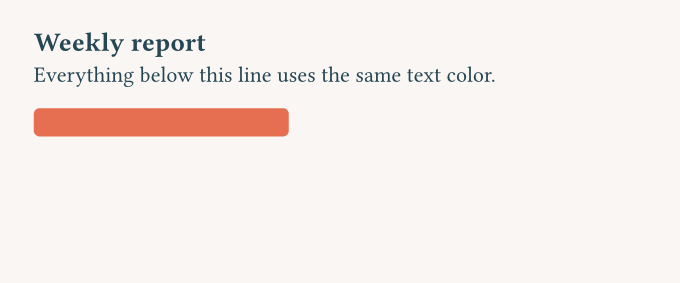
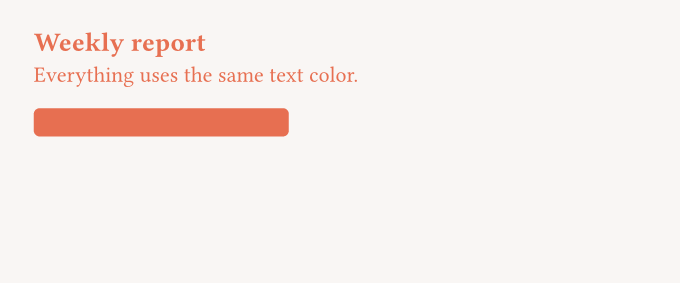
deploy: f40ca30443255fd2d4fcd120b3a94e809c6a17b5

Changed region(s): [[0.0309, 0.2261, 0.7412, 0.311], [0.0309, 0.1131, 0.3088, 0.1979]]

diff --git a/crash-course/index.html b/crash-course/index.html
@@ -592,6 +592,17 @@
   
 </li>
       
+        <li class="md-nav__item">
+  <a href="#next-step" class="md-nav__link">
+    <span class="md-ellipsis">
+      
+        Next step
+      
+    </span>
+  </a>
+  
+</li>
+      
     </ul>
   
 </nav>
@@ -1012,6 +1023,17 @@
   
 </li>
       
+        <li class="md-nav__item">
+  <a href="#next-step" class="md-nav__link">
+    <span class="md-ellipsis">
+      
+        Next step
+      
+    </span>
+  </a>
+  
+</li>
+      
     </ul>
   
 </nav>
@@ -1181,8 +1203,7 @@
 </div>
 </div>
 <p>Those are just common examples, but in practice you'll quickly find this intuitive as you start using Typst. A great way to make this simpler to you is to make you have <ins>syntax highlighting</ins> in your editor. If you have a second look <a href="#when-or-when-not-to-use-the--symbol">here</a>, you'll see that in the second case the text is all black, meaning that it will be rendered as is.</p>
-<p><br></p>
-<p><br></p>
+<p><br><br></p>
 <h2 id="exercises">Exercises<a class="headerlink" href="#exercises" title="Permanent link">&para;</a></h2>
 <div class="admonition note">
 <p class="admonition-title">Note</p>
@@ -1195,7 +1216,7 @@
 </li>
 </ul>
 </div>
-<h3 id="1-basics">1 - Basics<a class="headerlink" href="#1-basics" title="Permanent link">&para;</a></h3>
+<h4 id="1-basics">1 - Basics<a class="headerlink" href="#1-basics" title="Permanent link">&para;</a></h4>
 <p>Reproduce the PDF below:</p>
 <div class="tabbed-set tabbed-alternate" data-tabs="3:3"><input checked="checked" id="__tabbed_3_1" name="__tabbed_3" type="radio" /><input id="__tabbed_3_2" name="__tabbed_3" type="radio" /><input id="__tabbed_3_3" name="__tabbed_3" type="radio" /><div class="tabbed-labels"><label for="__tabbed_3_1">Exercise</label><label for="__tabbed_3_2">Hint</label><label for="__tabbed_3_3">Solution</label></div>
 <div class="tabbed-content">
@@ -1218,7 +1239,7 @@
 </div>
 </div>
 </div>
-<h3 id="2-a-first-shape">2 - A first shape<a class="headerlink" href="#2-a-first-shape" title="Permanent link">&para;</a></h3>
+<h4 id="2-a-first-shape">2 - A first shape<a class="headerlink" href="#2-a-first-shape" title="Permanent link">&para;</a></h4>
 <p>Reproduce the PDF below:</p>
 <div class="tabbed-set tabbed-alternate" data-tabs="4:3"><input checked="checked" id="__tabbed_4_1" name="__tabbed_4" type="radio" /><input id="__tabbed_4_2" name="__tabbed_4" type="radio" /><input id="__tabbed_4_3" name="__tabbed_4" type="radio" /><div class="tabbed-labels"><label for="__tabbed_4_1">Exercise</label><label for="__tabbed_4_2">Hint</label><label for="__tabbed_4_3">Solution</label></div>
 <div class="tabbed-content">
@@ -1239,7 +1260,7 @@
 </div>
 </div>
 </div>
-<h3 id="3-layout-with-stack">3 - Layout with <code>stack</code><a class="headerlink" href="#3-layout-with-stack" title="Permanent link">&para;</a></h3>
+<h4 id="3-layout-with-stack">3 - Layout with <code>stack</code><a class="headerlink" href="#3-layout-with-stack" title="Permanent link">&para;</a></h4>
 <p>Reproduce the PDF below:</p>
 <div class="tabbed-set tabbed-alternate" data-tabs="5:3"><input checked="checked" id="__tabbed_5_1" name="__tabbed_5" type="radio" /><input id="__tabbed_5_2" name="__tabbed_5" type="radio" /><input id="__tabbed_5_3" name="__tabbed_5" type="radio" /><div class="tabbed-labels"><label for="__tabbed_5_1">Exercise</label><label for="__tabbed_5_2">Hint</label><label for="__tabbed_5_3">Solution</label></div>
 <div class="tabbed-content">
@@ -1268,7 +1289,7 @@
 </div>
 </div>
 </div>
-<h3 id="4-variables-and-set-rules">4 - Variables and set rules<a class="headerlink" href="#4-variables-and-set-rules" title="Permanent link">&para;</a></h3>
+<h4 id="4-variables-and-set-rules">4 - Variables and set rules<a class="headerlink" href="#4-variables-and-set-rules" title="Permanent link">&para;</a></h4>
 <p>Reproduce the PDF below:</p>
 <div class="tabbed-set tabbed-alternate" data-tabs="6:3"><input checked="checked" id="__tabbed_6_1" name="__tabbed_6" type="radio" /><input id="__tabbed_6_2" name="__tabbed_6" type="radio" /><input id="__tabbed_6_3" name="__tabbed_6" type="radio" /><div class="tabbed-labels"><label for="__tabbed_6_1">Exercise</label><label for="__tabbed_6_2">Hint</label><label for="__tabbed_6_3">Solution</label></div>
 <div class="tabbed-content">
@@ -1277,29 +1298,26 @@
 </div>
 <div class="tabbed-block">
 <ul>
-<li>Define colors with <code>#let</code></li>
+<li>Define the main color (#e76f51) with <code>#let</code></li>
 <li>Use <code>#set text(...)</code> to style all text at once</li>
-<li>Add a heading, a paragraph, and a rectangle</li>
 </ul>
 </div>
 <div class="tabbed-block">
-<div class="language-typst highlight"><pre><span></span><code><span id="__span-15-1"><a id="__codelineno-15-1" name="__codelineno-15-1" href="#__codelineno-15-1"></a><span class="kd">#let</span><span class="w"> </span><span class="nv">bg</span><span class="w"> </span><span class="o">=</span><span class="w"> </span><span class="nf">rgb</span><span class="p">(</span><span class="s2">&quot;#f9f6f4&quot;</span><span class="p">)</span>
-</span><span id="__span-15-2"><a id="__codelineno-15-2" name="__codelineno-15-2" href="#__codelineno-15-2"></a><span class="kd">#let</span><span class="w"> </span><span class="nv">brand</span><span class="w"> </span><span class="o">=</span><span class="w"> </span><span class="nf">rgb</span><span class="p">(</span><span class="s2">&quot;#264653&quot;</span><span class="p">)</span>
-</span><span id="__span-15-3"><a id="__codelineno-15-3" name="__codelineno-15-3" href="#__codelineno-15-3"></a><span class="kd">#let</span><span class="w"> </span><span class="nv">accent</span><span class="w"> </span><span class="o">=</span><span class="w"> </span><span class="nf">rgb</span><span class="p">(</span><span class="s2">&quot;#e76f51&quot;</span><span class="p">)</span>
-</span><span id="__span-15-4"><a id="__codelineno-15-4" name="__codelineno-15-4" href="#__codelineno-15-4"></a>
-</span><span id="__span-15-5"><a id="__codelineno-15-5" name="__codelineno-15-5" href="#__codelineno-15-5"></a><span class="kd">#set</span><span class="w"> </span><span class="nf">page</span><span class="p">(</span><span class="nv">fill</span><span class="p">:</span><span class="w"> </span><span class="nv">bg</span><span class="p">,</span><span class="w"> </span><span class="nv">width</span><span class="p">:</span><span class="w"> </span><span class="m">12</span><span class="kr">cm</span><span class="p">,</span><span class="w"> </span><span class="nv">height</span><span class="p">:</span><span class="w"> </span><span class="m">5</span><span class="kr">cm</span><span class="p">)</span>
-</span><span id="__span-15-6"><a id="__codelineno-15-6" name="__codelineno-15-6" href="#__codelineno-15-6"></a><span class="kd">#set</span><span class="w"> </span><span class="nf">text</span><span class="p">(</span><span class="nv">fill</span><span class="p">:</span><span class="w"> </span><span class="nv">brand</span><span class="p">)</span>
+<div class="language-typst highlight"><pre><span></span><code><span id="__span-15-1"><a id="__codelineno-15-1" name="__codelineno-15-1" href="#__codelineno-15-1"></a><span class="kd">#let</span><span class="w"> </span><span class="nv">main-color</span><span class="w"> </span><span class="o">=</span><span class="w"> </span><span class="nf">rgb</span><span class="p">(</span><span class="s2">&quot;#e76f51&quot;</span><span class="p">)</span>
+</span><span id="__span-15-2"><a id="__codelineno-15-2" name="__codelineno-15-2" href="#__codelineno-15-2"></a>
+</span><span id="__span-15-3"><a id="__codelineno-15-3" name="__codelineno-15-3" href="#__codelineno-15-3"></a><span class="kd">#set</span><span class="w"> </span><span class="nf">page</span><span class="p">(</span><span class="nv">fill</span><span class="p">:</span><span class="w"> </span><span class="nf">rgb</span><span class="p">(</span><span class="s2">&quot;#f9f6f4&quot;</span><span class="p">),</span><span class="w"> </span><span class="nv">width</span><span class="p">:</span><span class="w"> </span><span class="m">12</span><span class="kr">cm</span><span class="p">,</span><span class="w"> </span><span class="nv">height</span><span class="p">:</span><span class="w"> </span><span class="m">5</span><span class="kr">cm</span><span class="p">)</span>
+</span><span id="__span-15-4"><a id="__codelineno-15-4" name="__codelineno-15-4" href="#__codelineno-15-4"></a><span class="kd">#set</span><span class="w"> </span><span class="nf">text</span><span class="p">(</span><span class="nv">fill</span><span class="p">:</span><span class="w"> </span><span class="nv">main-color</span><span class="p">)</span>
+</span><span id="__span-15-5"><a id="__codelineno-15-5" name="__codelineno-15-5" href="#__codelineno-15-5"></a>
+</span><span id="__span-15-6"><a id="__codelineno-15-6" name="__codelineno-15-6" href="#__codelineno-15-6"></a><span class="gh">== Weekly report</span>
 </span><span id="__span-15-7"><a id="__codelineno-15-7" name="__codelineno-15-7" href="#__codelineno-15-7"></a>
-</span><span id="__span-15-8"><a id="__codelineno-15-8" name="__codelineno-15-8" href="#__codelineno-15-8"></a><span class="gh">== Weekly report</span>
+</span><span id="__span-15-8"><a id="__codelineno-15-8" name="__codelineno-15-8" href="#__codelineno-15-8"></a>Everything<span class="w"> </span>uses<span class="w"> </span>the<span class="w"> </span>same<span class="w"> </span>text<span class="w"> </span>color.
 </span><span id="__span-15-9"><a id="__codelineno-15-9" name="__codelineno-15-9" href="#__codelineno-15-9"></a>
-</span><span id="__span-15-10"><a id="__codelineno-15-10" name="__codelineno-15-10" href="#__codelineno-15-10"></a>Everything<span class="w"> </span>below<span class="w"> </span>this<span class="w"> </span>line<span class="w"> </span>uses<span class="w"> </span>the<span class="w"> </span>same<span class="w"> </span>text<span class="w"> </span>color.
-</span><span id="__span-15-11"><a id="__codelineno-15-11" name="__codelineno-15-11" href="#__codelineno-15-11"></a>
-</span><span id="__span-15-12"><a id="__codelineno-15-12" name="__codelineno-15-12" href="#__codelineno-15-12"></a><span class="nf">#rect</span><span class="p">(</span><span class="nv">fill</span><span class="p">:</span><span class="w"> </span><span class="nv">accent</span><span class="p">,</span><span class="w"> </span><span class="nv">width</span><span class="p">:</span><span class="w"> </span><span class="m">4.5</span><span class="kr">cm</span><span class="p">,</span><span class="w"> </span><span class="nv">height</span><span class="p">:</span><span class="w"> </span><span class="m">0.5</span><span class="kr">cm</span><span class="p">,</span><span class="w"> </span><span class="nv">radius</span><span class="p">:</span><span class="w"> </span><span class="m">3</span><span class="kr">pt</span><span class="p">)</span>
+</span><span id="__span-15-10"><a id="__codelineno-15-10" name="__codelineno-15-10" href="#__codelineno-15-10"></a><span class="nf">#rect</span><span class="p">(</span><span class="nv">fill</span><span class="p">:</span><span class="w"> </span><span class="nv">main-color</span><span class="p">,</span><span class="w"> </span><span class="nv">width</span><span class="p">:</span><span class="w"> </span><span class="m">4.5</span><span class="kr">cm</span><span class="p">,</span><span class="w"> </span><span class="nv">height</span><span class="p">:</span><span class="w"> </span><span class="m">0.5</span><span class="kr">cm</span><span class="p">,</span><span class="w"> </span><span class="nv">radius</span><span class="p">:</span><span class="w"> </span><span class="m">3</span><span class="kr">pt</span><span class="p">)</span>
 </span></code></pre></div>
 </div>
 </div>
 </div>
-<h3 id="5-combining-align-and-stack">5 - Combining <code>align</code> and <code>stack</code><a class="headerlink" href="#5-combining-align-and-stack" title="Permanent link">&para;</a></h3>
+<h4 id="5-combining-align-and-stack">5 - Combining <code>align</code> and <code>stack</code><a class="headerlink" href="#5-combining-align-and-stack" title="Permanent link">&para;</a></h4>
 <p>Reproduce the PDF below:</p>
 <div class="tabbed-set tabbed-alternate" data-tabs="7:3"><input checked="checked" id="__tabbed_7_1" name="__tabbed_7" type="radio" /><input id="__tabbed_7_2" name="__tabbed_7" type="radio" /><input id="__tabbed_7_3" name="__tabbed_7" type="radio" /><div class="tabbed-labels"><label for="__tabbed_7_1">Exercise</label><label for="__tabbed_7_2">Hint</label><label for="__tabbed_7_3">Solution</label></div>
 <div class="tabbed-content">
@@ -1341,7 +1359,7 @@
 </div>
 </div>
 </div>
-<h3 id="6-create-a-function-with-parameters">6 - Create a function with parameters<a class="headerlink" href="#6-create-a-function-with-parameters" title="Permanent link">&para;</a></h3>
+<h4 id="6-create-a-function-with-parameters">6 - Create a function with parameters<a class="headerlink" href="#6-create-a-function-with-parameters" title="Permanent link">&para;</a></h4>
 <p>Reproduce the PDF below:</p>
 <div class="tabbed-set tabbed-alternate" data-tabs="8:3"><input checked="checked" id="__tabbed_8_1" name="__tabbed_8" type="radio" /><input id="__tabbed_8_2" name="__tabbed_8" type="radio" /><input id="__tabbed_8_3" name="__tabbed_8" type="radio" /><div class="tabbed-labels"><label for="__tabbed_8_1">Exercise</label><label for="__tabbed_8_2">Hint</label><label for="__tabbed_8_3">Solution</label></div>
 <div class="tabbed-content">
@@ -1379,6 +1397,10 @@
 </div>
 </div>
 </div>
+<p><br><br></p>
+<h2 id="next-step">Next step<a class="headerlink" href="#next-step" title="Permanent link">&para;</a></h2>
+<p>You now have some good Typst foundations! If you want to learn more, you can have a look at this <em>unofficial</em> <a href="https://sitandr.github.io/typst-examples-book/book/about.html">Typst Examples Book</a>.</p>
+<p>Otherwise you're ready to start using Typst from a programming language!</p>
 
 
 
